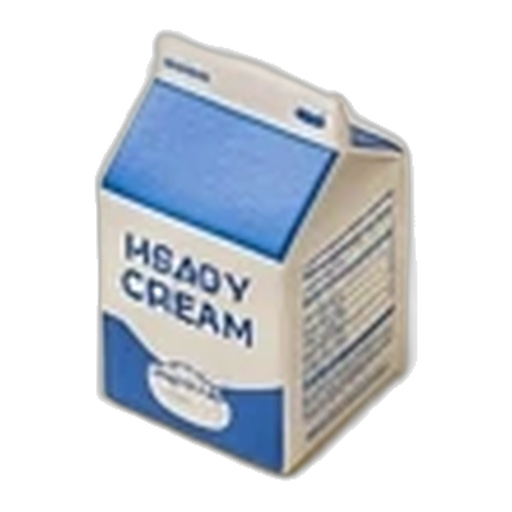
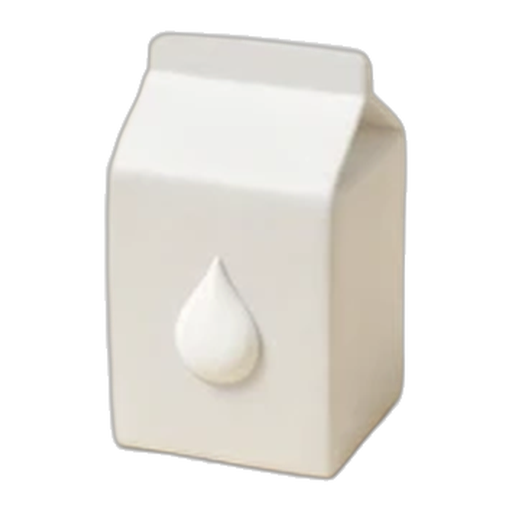
그림을 나눠 쓰던 재료·글씨가 엉터리던 포장 15개 교체 + 대표 그림 3개
- 돼지고기 다짐육·냉동새우·칵테일새우·훈제오리·감귤·멸치액젓·참치액은 이제 각자 그림 (나눠 쓰는 그림 없음)
- 새송이버섯·청양고추를 제 모양으로, 쌈장·밀가루·부침가루·생크림·두유·피코크 김치찌개는 글씨 없는 포장으로
- 대표 그림: 밀키트·가루·건조식품·냉동 해산물

Claude-Session: https://claude.ai/code/session_01MYGhb6R2QXY6quyyhQiczg

diff --git a/public/sw.js b/public/sw.js
@@ -3,7 +3,7 @@
 // - 그림·스크립트 등: 저장해 둔 것 먼저 (빌드 파일 이름이 바뀌므로 오래된 것이 남지 않음)
 // - /api/ (AI 연결 서버)는 저장하지 않는다
 
-const CACHE = 'fridge-planner-v9'; // 2026-11-10: 두부·떡·실온 간편식 그림을 바꿈 (같은 파일 이름이라 예전 그림이 남지 않게)
+const CACHE = 'fridge-planner-v10'; // 2026-11-10: 재료 15개·대표 그림 3개를 바꿈 (같은 파일 이름이라 예전 그림이 남지 않게)
 
 self.addEventListener('install', () => self.skipWaiting());
 self.addEventListener('activate', (e) => {
